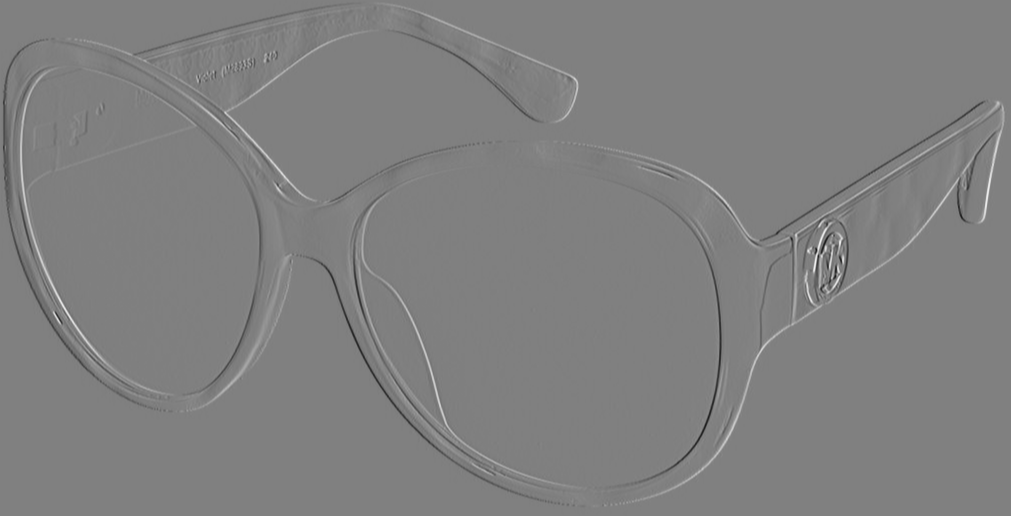
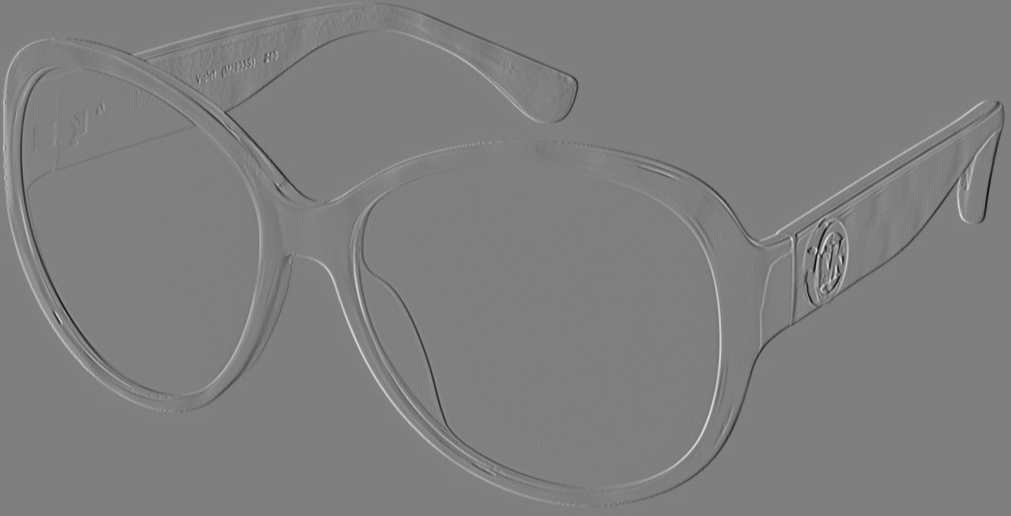
zusätzliche Sobel- und Graustufenbilder hinzugefügt

diff --git a/main.tex b/main.tex
@@ -311,21 +311,20 @@ Hierbei entsprechen die beiden Teilsummen den partiellen Ableitungen des Bildes 
 Eine Approximation der Ableitung $\sfrac{\partial \fun f}{\partial x}$ ist der zentrale Differenzenquotient
 %
 \begin{align}
-\frac{\partial \fun f}{\partial x} &\approx \frac{\fun f(x+\Delta x) - \fun f(x-\Delta x)}{2\Delta x} \label{eq:centralDifferenceOperator}
+\frac{\partial \fun f}{\partial x} &\approx \Delta f(x) = \frac{\fun f(x+\Delta x) - \fun f(x-\Delta x)}{2\Delta x} \label{eq:centralDifferenceOperator}
 \end{align}
 %
 der sich bei einer diskreten Schrittweite von $\Delta x = \Delta k = 1$ als Faltung (\engl{convolution}) $(\fun f \ast \fun g)[k]$ von $\fun f[k]$ mit der Funktion
 \begin{align}
 \fun g[k] = 
 	\begin{cases}
-		-\frac{1}{2} & \text{wenn } k = +1 \\
-		+\frac{1}{2} & \text{wenn } k = -1 \\
+		-\frac{1}{2} & \text{wenn } k = -1 \\
+		+\frac{1}{2} & \text{wenn } k = +1 \\
 		0 & \text{sonst}
 	\end{cases} \label{eq:conv1DKernel}
 \end{align}
 %
-abbilden lässt.
-Die Überkreuzung der Vorzeichen im sog. Faltungskern erklärt sich über die Definition der diskreten Faltung:
+Die diskrete Faltung ist dabei definiert als:
 %
 \begin{align}
 (\fun f \ast \fun g)[n] &= \sum_k \fun f[k] \cdot \fun g[n - k] \\
@@ -362,8 +361,8 @@ Bei Darstellung der Funktion $f[n]$ und des Faltungskerns $g[n]$ in vektorieller
 Der in \cref{eq:conv1DKernel} beschriebene eindimensionale Faltungskern zur Berechnung des zentralen Differenzenquotienten zur diskreten Approximation des Differentialquotienten gemäß \cref{eq:centralDifferenceOperator} beschreibt sich so als
 %
 \begin{align}
-\mat g_{diff} = \begin{bmatrix}
- 1 & 0 & -1
+\mat g_{diff} = \frac{1}{2} \begin{bmatrix}
+ -1 & 0 & +1
  \end{bmatrix} \label{eq:len3diffKernel}
 \end{align}
 
@@ -379,10 +378,10 @@ Einen einfachen, aber effektiven Glättungsprozess stellt dabei der (lokal) gewi
 Zwei eindimensionale Glättungskern in horizontaler Richtung stellen \cref{eq:len3meanKernel1D} (ein einfacher Mittelwert über die direkte Nachbarschaft), sowie \cref{eq:len3smoothKernel1D} (ein gewichteter Mittelwert über dieselbe Nachbarschaft) dar:
 %
 \begin{align}
-\mat g_{mean} = \begin{bmatrix}
+\mat g_{mean} = \frac{1}{3} \begin{bmatrix}
  1 & 1 & 1
  \end{bmatrix} \label{eq:len3meanKernel1D} \\
-\mat g_{smooth} = \begin{bmatrix}
+\mat g_{smooth} = \frac{1}{4} \begin{bmatrix}
  1 & 2 & 1
  \end{bmatrix} \label{eq:len3smoothKernel1D}
 \end{align}
@@ -405,22 +404,22 @@ welche einen zweidimensionalen Filterkern (eine Matrix) auf eine zweidimensional
 Der 2D-Filterkern des Sobel-Operators zur Differenzierung in horizontaler Richtung $\mat G_{x}$ ergibt sich nun aus der Überlagerung der Kerne $\mat g_{smooth}$ und $\mat g_{diff}$ mittels des dyadischen (bzw. Kronecker-)Produktes als
 %
 \begin{align}
-\mat G_{x} &= 
+\mat G_{x} &= \frac{1}{8}
 \begin{bmatrix}
- 1 & 0 & -1 \\
- 2 & 0 & -2 \\
- 1 & 0 & -1
+ -1 & 0 & 1 \\
+ -2 & 0 & 2 \\
+ -1 & 0 & 1
  \end{bmatrix} = \mat g_{smooth}^T \otimes \mat g_{diff} \label{eq:sobel3x}
 \end{align}
 
 Analog existiert ein Operator $\mat G_{y}$ für Differenzierung in vertikaler Richtung mit
 %
 \begin{align}
-\mat G_{y} &= 
+\mat G_{y} &= \frac{1}{8}
 \begin{bmatrix}
- 1 & 2 &  1 \\
+ -1 & -2 & -1 \\
  0 & 0 & 0 \\
- -1 & -2 & -1
+ 1 & 2 & 1
  \end{bmatrix} = \mat g_{diff}^T \otimes \mat g_{smooth} \label{eq:sobel3y}
 \end{align}
 
@@ -429,8 +428,12 @@ Der Vektor der partiellen Ableitungen $\frac{\partial \mat I}{\partial x}$, $\fr
 \begin{align}
 \nabla \mat I = 
 	\begin{bmatrix}
-	\sfrac{\partial \mat I}{\partial x} \\
-	\sfrac{\partial \mat I}{\partial y}
+		\sfrac{\partial \mat I}{\partial x} \\
+		\sfrac{\partial \mat I}{\partial y}
+	\end{bmatrix} \approx
+	\begin{bmatrix}
+		\Delta_x \mat I \\
+		\Delta_y \mat I
 	\end{bmatrix}  \label{eq:gradient}
 \end{align}
 %
@@ -438,14 +441,19 @@ welcher anschaulich eine Menge von Richtungsvektoren beschreibt, entlang derer d
 
 Eine nennenswerte Eigenschaft der Differenzierung von Bildern ist, dass die so ermittelten Intensitätssprünge üblicherweise \todo{Quelle} einhergehen mit dem Vorhandensein von Kanten abgebildeter Objekte, weswegen der Sobel-Operator regelmäßig als einfacher%
 \footnote{Der Sobel-Operator ist nicht anisotrop; seine Sensitivität gegenüber diagonalen Kanten -- insbesonderer solcher im 45°-Winkel zu den beiden Suchrichtungen -- ist minimal.}, wenngleich effizienter Kantendetektor eingesetzt wird.
+\Cref{fig:sobelGlasses,fig:sobelMascara} demonstrieren die Wirkung des Sobel-Operators.
 
 Analog \cref{eq:seamEnergy1} ergibt sich nun das Energiebild des Bildes $\mat I$ als
 %
 \begin{align}
-\fun e_1(\mat I) &= |\mat G_x \ast \mat I| + |\mat G_y \ast \mat I| \label{eq:sobelEnergy}
+\begin{split}
+\fun e_1(\mat I) &\approx |\mat G_x \ast \mat I| + |\mat G_y \ast \mat I| \\
+                 &= |\Delta_x \mat I| + |\Delta_y \mat I|
+\end{split} \label{eq:sobelEnergy}
 \end{align}
 %
 das heißt der absoluten Summe des mit jedem Sobel-Operatoren separat gefalteten Bildes.
+\Cref{fig:mascaraEnergy} zeigt exemplarisch das Energiebild von \cref{fig:mascara}.
 
 \todo[inline]{Weitere Energie ergibt sich über Grauwert-Cooccurence-Matrix, siehe \url{http://de.mathworks.com/help/images/ref/graycoprops.html} und 
 \url{http://de.mathworks.com/help/images/ref/graycomatrix.html}}
@@ -484,9 +492,57 @@ Für einen $3 \times 3$-Filterkern ergibt sich eine Beschleunigung um Faktor $1.
         \caption{Ausschnitt gefiltert mit vertikalem Sobel-Operator, \cref{eq:sobel3y}}
         \label{fig:sobelY}
     \end{subfigure}
-    
+
     \caption{\Cref{fig:vorverBild} gefiltert mit Sobel-Operator}
-    \caption*{Nur der zentrale Bildausschnitt wird dargestellt. Eine Skalierung um $\sfrac{1}{8}$ und Offsetverschiebung um $+127$ zurück in den Wertebereich $0 \dots 255$ ($0$ entspricht schwarz, $255$ entspricht weiß) wurde für Darstellungszwecke vorgenommen; Neutralgrau (Helligkeitswert $127$) entspricht Kantenfreiheit, dunklere Töne einer steigenden Kante (Suchrichtung links nach rechts bzw. oben nach unten), hellere Töne einer fallenden Kante.}
+    \caption*{Nur der zentrale Bildausschnitt wird dargestellt. Eine Skalierung um $\sfrac{1}{8}$ und Offsetverschiebung um $+127$ zurück in den Wertebereich $0 \dots 255$ ($0$ entspricht schwarz, $255$ entspricht weiß) wurde für Darstellungszwecke vorgenommen; Neutralgrau (Helligkeitswert $127$) entspricht Kantenfreiheit, hellere Töne einer steigenden Flanke (Suchrichtung links nach rechts bzw. oben nach unten), dunklere Töne einer fallenden Flanke.}
+    \label{fig:sobelGlasses}
+\end{figure}
+
+\begin{figure}
+	\centering
+	\begin{subfigure}[b]{0.25\textwidth}
+        \includegraphics[width=\textwidth]{E559256E6CEA31B79B411104084DF35F9370B147FA3E9BF668FD2FE07367702D}
+        \caption{Original} \label{fig:mascara}
+    \end{subfigure}
+    %
+    \begin{subfigure}[b]{0.25\textwidth}
+        \includegraphics[width=\textwidth]{E559256E6CEA31B79B411104084DF35F9370B147FA3E9BF668FD2FE07367702D-intensity}
+        \caption{Intensity} \label{fig:mascara_intensity}
+    \end{subfigure}
+    %
+    \begin{subfigure}[b]{0.25\textwidth}
+        \includegraphics[width=\textwidth]{E559256E6CEA31B79B411104084DF35F9370B147FA3E9BF668FD2FE07367702D-gleam}
+        \caption{Gleam} \label{fig:mascara_gleam}
+    \end{subfigure}
+           
+    \caption{Graustufenumwandlung Intensity und Gleam}
+    \caption*{Umwandlung des Originalbildes mittels Intensity- und Gleam-Methode. \\ \centering Mascara, \cite{Lacome:2015:Mascara:Online}}
+\end{figure}
+
+\begin{figure}
+	\centering
+    \begin{subfigure}[b]{0.25\textwidth}
+        \includegraphics[width=\textwidth]{E559256E6CEA31B79B411104084DF35F9370B147FA3E9BF668FD2FE07367702D-sobelX}
+        \caption{$\Delta_x \mat I$}
+        \label{fig:mascaraSobelX}
+    \end{subfigure}
+    \quad
+    \begin{subfigure}[b]{0.25\textwidth}
+        \includegraphics[width=\textwidth]{E559256E6CEA31B79B411104084DF35F9370B147FA3E9BF668FD2FE07367702D-sobelY}
+        \caption{$\Delta_y \mat I$}
+        \label{fig:mascaraSobelY}
+    \end{subfigure}    
+    \quad
+    \begin{subfigure}[b]{0.25\textwidth}
+        \includegraphics[width=\textwidth]{E559256E6CEA31B79B411104084DF35F9370B147FA3E9BF668FD2FE07367702D-energy}
+        \caption{$|\Delta_x \mat I| + |\Delta_y \mat I|$}
+        \label{fig:mascaraEnergy}
+    \end{subfigure}     
+           
+    \caption{\Cref{fig:mascara} gefiltert mit Sobel-Operator, Energiebild}
+    \caption*{Anwendung der Sobel-Operatoren aus \cref{eq:sobel3x,eq:sobel3y} in X- und Y-Richtung auf \cref{fig:mascara}, sowie Energiebild gemäß \cref{eq:sobelEnergy}.
+    Normierung auf Wertebereich $0 \dots 255$ analog \cref{fig:sobelGlasses}.}
+    \label{fig:sobelMascara}
 \end{figure}
 
 \todo[inline]{Stellt Kanten mit doppelter Breite dar}
